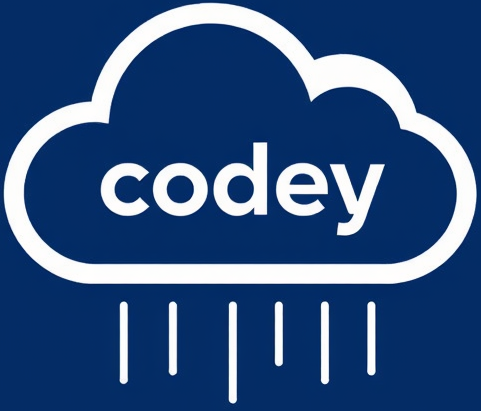
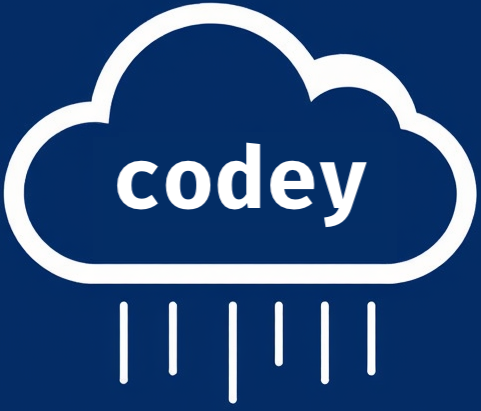
Big changes.

Changed region(s): [[0.1871, 0.3212, 0.8108, 0.5839]]

diff --git a/docs/styles.css b/docs/styles.css
@@ -47,7 +47,7 @@ body, html {
     flex-direction: column;
     justify-content: center;
     align-items: flex-start;  
-    padding-left: 5%;  
+    padding-left: 2.5%;  
 }
 
 .banner-section-right {
@@ -55,7 +55,7 @@ body, html {
     flex: 1;  
     justify-content: flex-end;  
     align-items: flex-end;  
-    padding-right: 5%;  
+    padding-right: 2.5%;  
 }
 
 nav {
@@ -63,14 +63,14 @@ nav {
     display: grid;
     grid-template-columns: 1fr 1fr 1fr 1fr 1fr;
     background-color: var(--primary-color);
-    border-bottom: 1px solid white;
+    /* border-bottom: 1px solid white; */
 
 }
 
 .menu-button {
     font-size: 16px;
-    background-color: var(--secondary-color);
-    color: var(--text-color);
+    /* background-color: var(--secondary-color);
+    color: var(--text-color); */
     text-align: center;
     padding: 7.5px 15px; 
     /* max-width: 50; */
@@ -81,6 +81,9 @@ nav {
     justify-content: center;
     align-items: center;
     height: auto;  
+    background-color: white;
+    /* color: var(--secondary-color); */
+    color: black;
 }
 
 /* .menu-button:hover {
@@ -89,8 +92,10 @@ nav {
 } */
 
 .menu-button:hover {
-    background-color: white;
-    color: var(--secondary-color);
+    /* background-color: white;
+    color: var(--secondary-color); */
+    background-color: var(--secondary-color);
+    color: var(--text-color);
 }
 
 .menu-button:first-child {
@@ -112,8 +117,9 @@ nav {
 
 main {
     /* background-color: black; */
-    background-color: #05367a;
-    color: white;
+    /* background-color: #05367a; darker version of site*/
+    background-color: white;
+    color: black;
     display: flex;
     flex: 1;
 }
@@ -124,6 +130,10 @@ main {
     margin: 0 auto;
     padding: 0 15px;
     box-sizing: border-box;
+}
+
+.page-heading {
+
 }
 
 #logo {
@@ -141,7 +151,7 @@ main {
 }
 
 #subtitle {
-    font-size: 32px;
+    font-size: 28px;
     color: var(--text-color);
     margin-top: 10px;
     font-style: italic;

diff --git a/docs/index.html b/docs/index.html
@@ -15,7 +15,7 @@
             </div>
 
             <div class="banner-section-right">
-                <img id="logo" src="./img/codeycloud.png" alt="Codey Cloud Logo">
+                <img id="logo" src="./img/codeycloud-original.png" alt="Codey Cloud Logo">
             </div>
         </section>
 
@@ -31,24 +31,24 @@
     <main>
         <section class="main-content">
             <section id="home" class="page">
-                <h1>Welcome to Codey Cloud</h1>
+                <h1 class="page-heading">Welcome to Codey Cloud</h1>
             </section>
 
             <section id="usage-demo" class="page">
-                <h1>Walkthrough of common workloads</h1>
+                <h1 class="page-heading">Walkthrough of common workloads</h1>
                 <p></p>
             </section>
 
             <section id="key-features" class="page">
-                <h1>Key Features</h1>
+                <h1 class="page-heading">Key Features</h1>
             </section>
 
             <section id="cli-api" class="page">
-                <h1>CLI & API</h1>
+                <h1 class="page-heading">CLI & API</h1>
             </section>
 
             <section id="uni" class="page">
-                <h1>Simple hardware and OS-level virtualization for uni students</h1>
+                <h1 class="page-heading">Simple hardware and OS-level virtualization for uni students</h1>
             </section>
         </section>
     </main>
